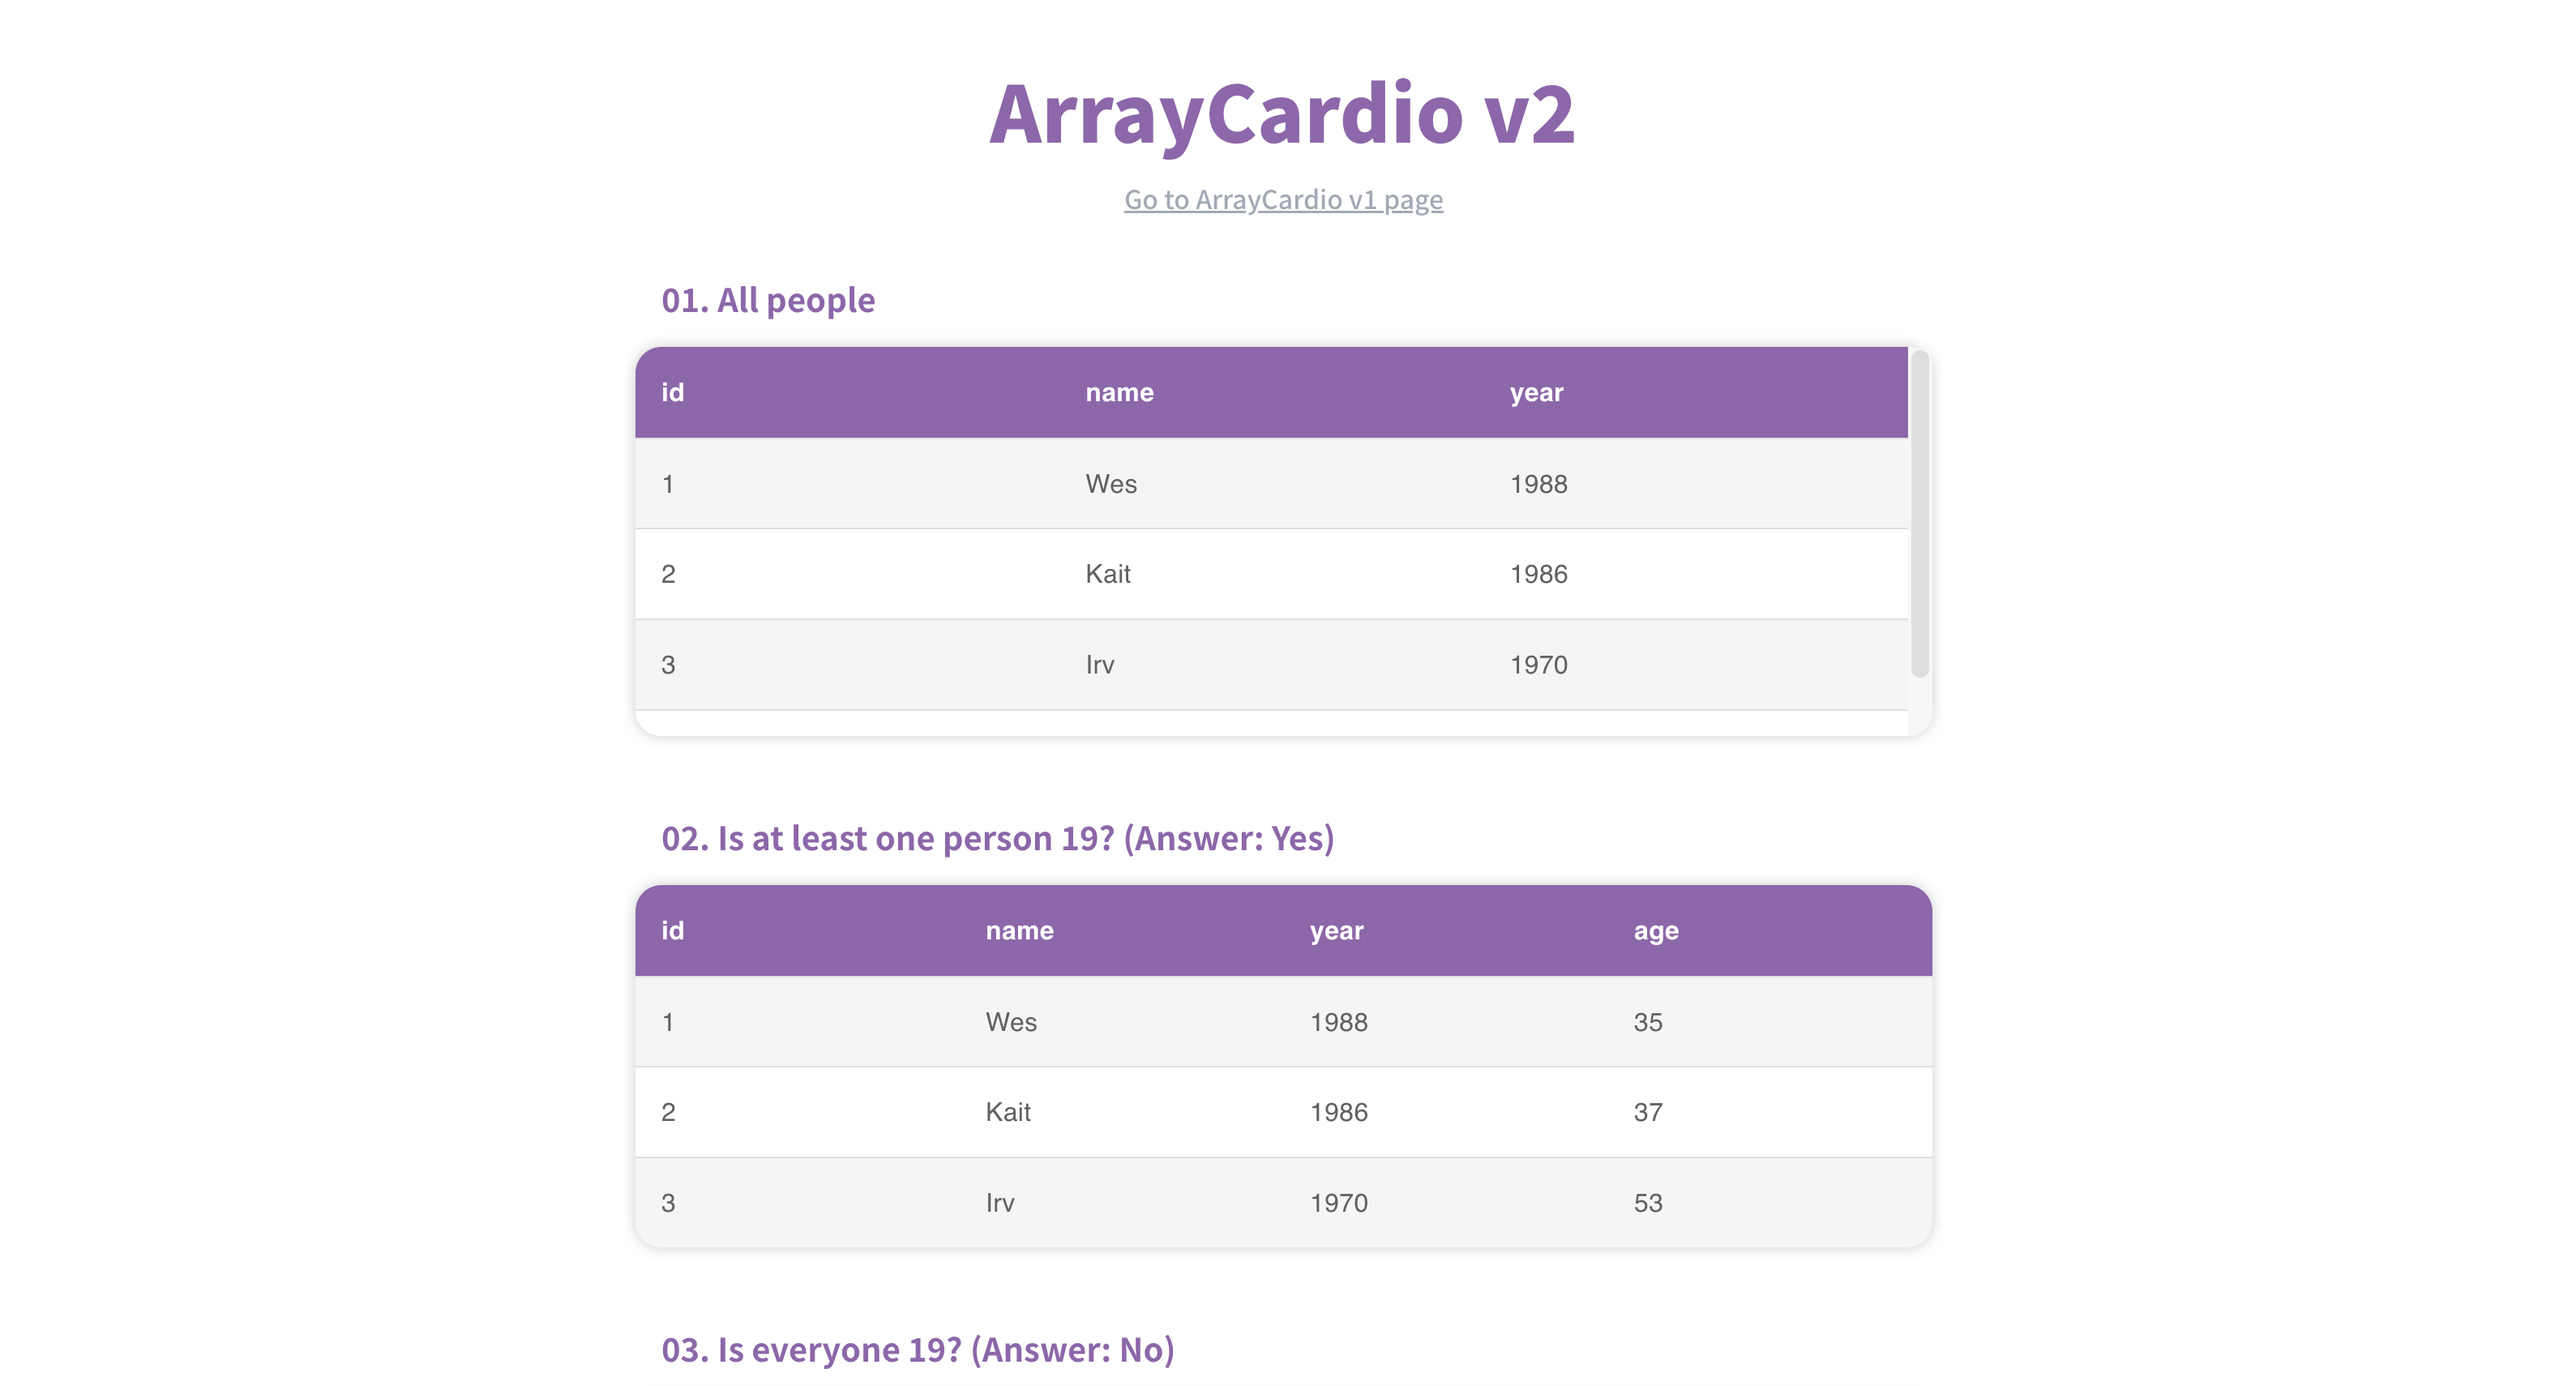
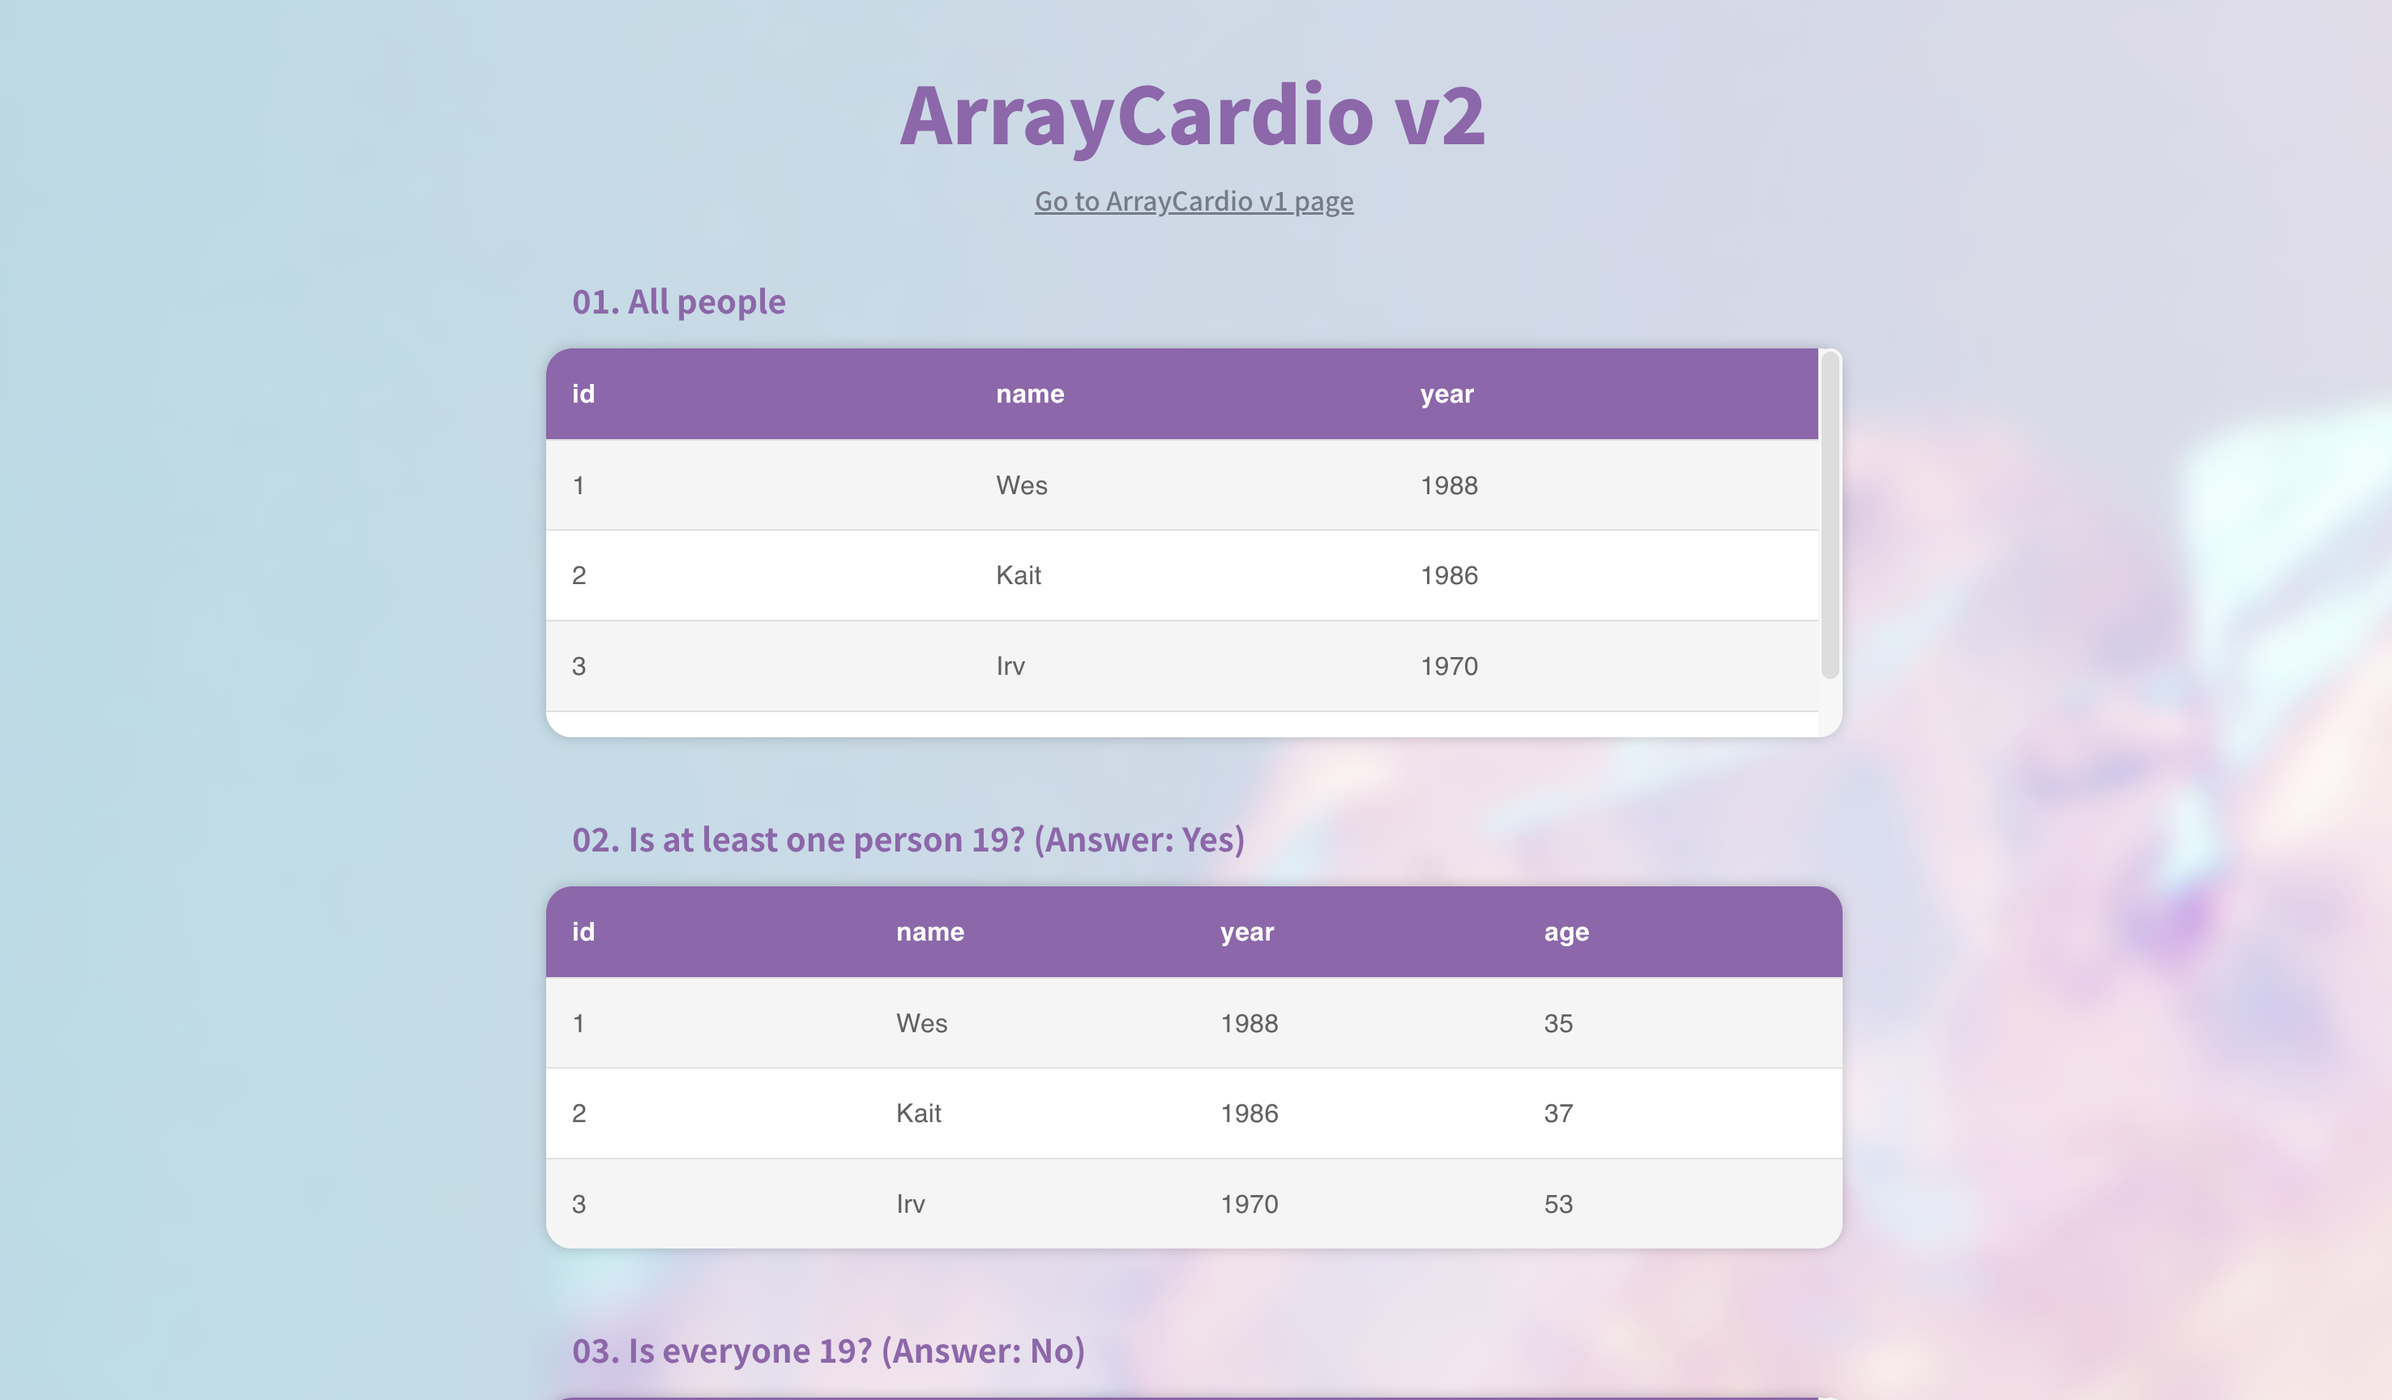
feat: page 04 & 07 adjust bg

diff --git a/src/Pages/04ArrayCardio/styles.module.scss b/src/Pages/04ArrayCardio/styles.module.scss
@@ -1,10 +1,30 @@
 .page {
+  width: 100%;
   min-height: 100%;
   padding: 2rem;
-  background: #fff;
+  background-image: url('../../Assets/07bg.jpg');
+
+  &::after {
+    content: '';
+
+    position: fixed;
+    top: 0;
+    left: 0;
+
+    display: block;
+
+    width: 100%;
+    height: 100%;
+
+    background-color: rgba($color: #fff, $alpha: 30%);
+    backdrop-filter: blur(0.5rem);
+  }
 }
 
 .title {
+  position: relative;
+  z-index: 99;
+
   display: flex;
   flex-direction: column;
   gap: 0.5rem;
@@ -20,12 +40,15 @@
     font-size: 1rem;
     font-weight: 500;
     line-height: 100%;
-    color: #a2a9b6;
+    color: #747b88;
     text-decoration: underline;
   }
 }
 
 .container {
+  position: relative;
+  z-index: 99;
+
   display: flex;
   flex-direction: column;
   gap: 3rem;

diff --git a/src/Pages/07ArrayCardio/styles.module.scss b/src/Pages/07ArrayCardio/styles.module.scss
@@ -1,10 +1,30 @@
 .page {
+  width: 100%;
   min-height: 100%;
   padding: 2rem;
-  background: #fff;
+  background-image: url('../../Assets/07bg.jpg');
+
+  &::after {
+    content: '';
+
+    position: fixed;
+    top: 0;
+    left: 0;
+
+    display: block;
+
+    width: 100%;
+    height: 100%;
+
+    background-color: rgba($color: #fff, $alpha: 20%);
+    backdrop-filter: blur(0.5rem);
+  }
 }
 
 .title {
+  position: relative;
+  z-index: 99;
+
   display: flex;
   flex-direction: column;
   gap: 0.5rem;
@@ -20,12 +40,15 @@
     font-size: 1rem;
     font-weight: 500;
     line-height: 100%;
-    color: #a2a9b6;
+    color: #747b88;
     text-decoration: underline;
   }
 }
 
 .container {
+  position: relative;
+  z-index: 99;
+
   display: flex;
   flex-direction: column;
   gap: 3rem;

diff --git a/src/Pages/04ArrayCardio/index.jsx b/src/Pages/04ArrayCardio/index.jsx
@@ -26,7 +26,7 @@ export const ArrayCardioPage01 = () => {
     return { id: i + 1, way, times };
   });
 
-  const prinaryColor = '#72b8cb';
+  const prinaryColor = '#2796b5';
 
   return (
     <section className={styles.page}>
